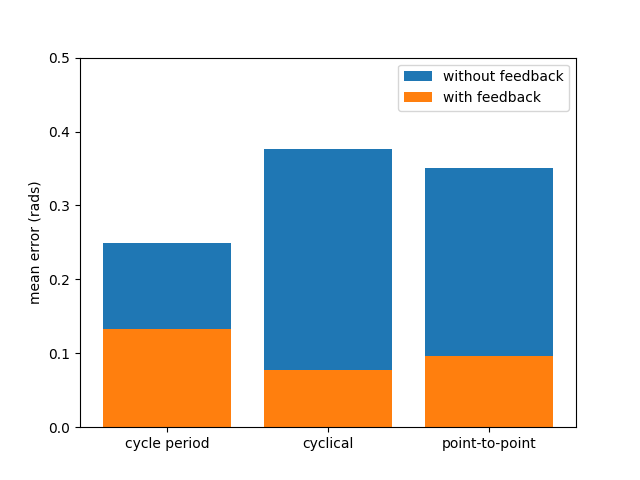
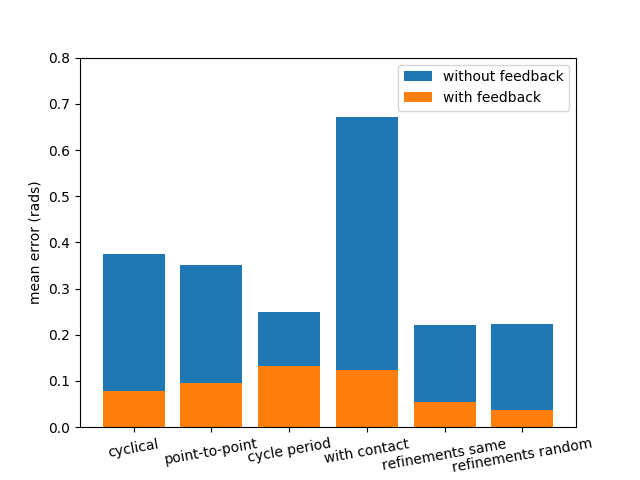
changing the code to generate one instanse figure and saving the results

diff --git a/main.py b/main.py
@@ -22,15 +22,15 @@ np.random.seed(0)
 
 P = np.array([10, 15])
 I = np.array([2, 6])
-trial_number = 50
-
-experiments_switch=[0, 0, 0, 0, 0, 0, 0, 0]#[1, 1, 1, 1, 1, 1, 1, 1] 
+trial_number = 1
+plot_outputs=True
+experiments_switch=[1, 1, 1, 0, 1, 0, 0, 0]#[0, 0, 0, 0, 0, 0, 0, 0]#[1, 1, 1, 1, 1, 1, 1, 1] 
 for ii in range(len(experiments_switch)):
 	globals()["exp{}_average_error".format(ii+1)]=np.zeros([2,1])
 
 if experiments_switch[0] ==1:
 	features=np.ones(10,)
-	cycle_durations = np.linspace(.1,10,trial_number)
+	cycle_durations = np.array([2])#np.linspace(.1,10,trial_number)
 	test1_no = cycle_durations.shape[0]
 	exp1_average_error = np.zeros([2,test1_no]) # first row open-loop and second row close-loop
 	#cycle length experiment
@@ -39,8 +39,8 @@ if experiments_switch[0] ==1:
 		q0_filtered_10 = np.tile(q0_filtered,10)
 		q1_filtered_10 = np.tile(q1_filtered,10)
 		desired_kinematics = positions_to_kinematics_fcn(q0_filtered_10, q1_filtered_10, timestep = 0.005)
-		exp1_average_error[0,ii], _, _ = openloop_run_fcn(model=model, desired_kinematics=desired_kinematics, plot_outputs=False, Mj_render=False)
-		exp1_average_error[1,ii], _, _ = closeloop_run_fcn(model=model, desired_kinematics=desired_kinematics, P=P, I=I, plot_outputs=False, Mj_render=False) # K = [10, 15]
+		exp1_average_error[0,ii], _, _ = openloop_run_fcn(model=model, desired_kinematics=desired_kinematics, plot_outputs=plot_outputs, Mj_render=False)
+		exp1_average_error[1,ii], _, _ = closeloop_run_fcn(model=model, desired_kinematics=desired_kinematics, P=P, I=I, plot_outputs=plot_outputs, Mj_render=False) # K = [10, 15]
 
 if experiments_switch[1] ==1:
 	test2_no = trial_number
@@ -52,8 +52,8 @@ if experiments_switch[1] ==1:
 		q0_filtered_10 = np.tile(q0_filtered,10)
 		q1_filtered_10 = np.tile(q1_filtered,10)
 		desired_kinematics = positions_to_kinematics_fcn(q0_filtered_10, q1_filtered_10, timestep = 0.005)
-		exp2_average_error[0,ii], _, _ = openloop_run_fcn(model=model, desired_kinematics=desired_kinematics, plot_outputs=False, Mj_render=False)
-		exp2_average_error[1,ii], _, _ = closeloop_run_fcn(model=model, desired_kinematics=desired_kinematics, P=P, I=I, plot_outputs=False, Mj_render=False) # K = [10, 15]
+		exp2_average_error[0,ii], _, _ = openloop_run_fcn(model=model, desired_kinematics=desired_kinematics, plot_outputs=plot_outputs, Mj_render=False)
+		exp2_average_error[1,ii], _, _ = closeloop_run_fcn(model=model, desired_kinematics=desired_kinematics, P=P, I=I, plot_outputs=plot_outputs, Mj_render=False) # K = [10, 15]
 		#print("error_without: ", exp2_average_error[0,0], "error with: ", exp2_average_error[1,0])
 
 if experiments_switch[2] ==1:
@@ -63,8 +63,8 @@ if experiments_switch[2] ==1:
 		q0 = p2p_positions_gen_fcn(low=-np.pi/3, high=np.pi/3, number_of_positions=10, duration_of_each_position=3, timestep=.005)
 		q1 = p2p_positions_gen_fcn(low=-np.pi/2, high=0, number_of_positions=10, duration_of_each_position=3, timestep=.005)
 		desired_kinematics = positions_to_kinematics_fcn(q0, q1, timestep = 0.005)
-		exp3_average_error[0,ii], _, _ = openloop_run_fcn(model=model, desired_kinematics=desired_kinematics, plot_outputs=False, Mj_render=False)
-		exp3_average_error[1,ii], _, _ = closeloop_run_fcn(model=model, desired_kinematics=desired_kinematics,  P=P, I=I, plot_outputs=False, Mj_render=False) # K = [10, 15]
+		exp3_average_error[0,ii], _, _ = openloop_run_fcn(model=model, desired_kinematics=desired_kinematics, plot_outputs=plot_outputs, Mj_render=False)
+		exp3_average_error[1,ii], _, _ = closeloop_run_fcn(model=model, desired_kinematics=desired_kinematics,  P=P, I=I, plot_outputs=plot_outputs, Mj_render=False) # K = [10, 15]
 
 if experiments_switch[3] ==1:
 	test4_no = 1
@@ -93,8 +93,8 @@ if experiments_switch[4] == 1:
 		q0_filtered_10 = np.tile(q0_filtered,10)
 		q1_filtered_10 = np.tile(q1_filtered,10)
 		desired_kinematics = positions_to_kinematics_fcn(q0_filtered_10, q1_filtered_10, timestep = 0.005)
-		exp5_average_error[0,ii], _, _ = openloop_run_fcn(model=model, desired_kinematics=desired_kinematics, model_ver=2, plot_outputs=False, Mj_render=False)
-		exp5_average_error[1,ii], _, _ = closeloop_run_fcn(model=model, desired_kinematics=desired_kinematics, model_ver=2, P=P, I=I, plot_outputs=False, Mj_render=False) # K = [10, 15]
+		exp5_average_error[0,ii], _, _ = openloop_run_fcn(model=model, desired_kinematics=desired_kinematics, model_ver=2, plot_outputs=plot_outputs, Mj_render=False)
+		exp5_average_error[1,ii], _, _ = closeloop_run_fcn(model=model, desired_kinematics=desired_kinematics, model_ver=2, P=P, I=I, plot_outputs=plot_outputs, Mj_render=False) # K = [10, 15]
 
 if experiments_switch[5] == 1: # everlearn ones
 	[babbling_kinematics_1min, babbling_activations_1min] = babbling_fcn(simulation_minutes=1)
@@ -115,11 +115,11 @@ if experiments_switch[5] == 1: # everlearn ones
 		q1_filtered_10 = np.tile(q1_filtered,10)
 		desired_kinematics = positions_to_kinematics_fcn(q0_filtered_10, q1_filtered_10, timestep = 0.005)
 
-		exp6_average_error[0,ii], real_attempt_kinematics_ol, real_attempt_activations_ol = openloop_run_fcn(model=exp6_model_ol, desired_kinematics=desired_kinematics, model_ver=0, plot_outputs=False, Mj_render=False)
+		exp6_average_error[0,ii], real_attempt_kinematics_ol, real_attempt_activations_ol = openloop_run_fcn(model=exp6_model_ol, desired_kinematics=desired_kinematics, model_ver=0, plot_outputs=plot_outputs, Mj_render=False)
 		cum_kinematics_ol, cum_activations_ol = concatinate_data_fcn( cum_kinematics_ol, cum_activations_ol, real_attempt_kinematics_ol, real_attempt_activations_ol, throw_percentage = 0.20)
 		exp6_model_ol = inverse_mapping_fcn(cum_kinematics_ol, cum_activations_ol, prior_model = exp6_model_ol)
 
-		exp6_average_error[1,ii], real_attempt_kinematics_cl, real_attempt_activations_cl = closeloop_run_fcn(model=exp6_model_cl, desired_kinematics=desired_kinematics, model_ver=0, P=P, I=I, plot_outputs=False, Mj_render=False)
+		exp6_average_error[1,ii], real_attempt_kinematics_cl, real_attempt_activations_cl = closeloop_run_fcn(model=exp6_model_cl, desired_kinematics=desired_kinematics, model_ver=0, P=P, I=I, plot_outputs=plot_outputs, Mj_render=False)
 		cum_kinematics_cl, cum_activations_cl = concatinate_data_fcn( cum_kinematics_cl, cum_activations_cl, real_attempt_kinematics_cl, real_attempt_activations_cl, throw_percentage = 0.20)
 		exp6_model_cl = inverse_mapping_fcn(cum_kinematics_cl, cum_activations_cl, prior_model = exp6_model_cl)
 
@@ -142,11 +142,11 @@ if experiments_switch[6] == 1: # everlearn random
 		q1_filtered_10 = np.tile(q1_filtered,10)
 		desired_kinematics = positions_to_kinematics_fcn(q0_filtered_10, q1_filtered_10, timestep = 0.005)
 
-		exp7_average_error[0,ii], real_attempt_kinematics_ol, real_attempt_activations_ol = openloop_run_fcn(model=exp7_model_ol, desired_kinematics=desired_kinematics, model_ver=0, plot_outputs=False, Mj_render=False)
+		exp7_average_error[0,ii], real_attempt_kinematics_ol, real_attempt_activations_ol = openloop_run_fcn(model=exp7_model_ol, desired_kinematics=desired_kinematics, model_ver=0, plot_outputs=plot_outputs, Mj_render=False)
 		cum_kinematics_ol, cum_activations_ol = concatinate_data_fcn( cum_kinematics_ol, cum_activations_ol, real_attempt_kinematics_ol, real_attempt_activations_ol, throw_percentage = 0.20)
 		exp7_model_ol = inverse_mapping_fcn(cum_kinematics_ol, cum_activations_ol, prior_model = exp6_model_ol)
 
-		exp7_average_error[1,ii], real_attempt_kinematics_cl, real_attempt_activations_cl = closeloop_run_fcn(model=exp7_model_cl, desired_kinematics=desired_kinematics, model_ver=0, P=P, I=I, plot_outputs=False, Mj_render=False)
+		exp7_average_error[1,ii], real_attempt_kinematics_cl, real_attempt_activations_cl = closeloop_run_fcn(model=exp7_model_cl, desired_kinematics=desired_kinematics, model_ver=0, P=P, I=I, plot_outputs=plot_outputs, Mj_render=False)
 		cum_kinematics_cl, cum_activations_cl = concatinate_data_fcn( cum_kinematics_cl, cum_activations_cl, real_attempt_kinematics_cl, real_attempt_activations_cl, throw_percentage = 0.20)
 		exp7_model_cl = inverse_mapping_fcn(cum_kinematics_cl, cum_activations_cl, prior_model = exp6_model_cl)
 
@@ -179,6 +179,6 @@ errors_all = [exp1_average_error, exp2_average_error, exp3_average_error, exp4_a
 # plt.plot(exp7_average_error[0,:])
 # plt.plot(exp7_average_error[1,:])
 # plt.show(block=True)
-plot_comparison_figures_fcn(errors_all)
+#plot_comparison_figures_fcn(errors_all)
 
 #import pdb; pdb.set_trace()

diff --git a/feedback_functions.py b/feedback_functions.py
@@ -90,7 +90,7 @@ def closeloop_run_fcn(model, desired_kinematics, P, I, delay_timesteps=0, model_
 	error1 = error_cal_fcn(desired_kinematics[:,3], real_attempt_kinematics[:,3])
 	average_error = 0.5*(error0+error1)
 	if plot_outputs:
-		plt.figure()
+		#plt.figure()
 		plt.subplot(2, 1, 1)
 		plt.plot(range(desired_kinematics.shape[0]), desired_kinematics[:,0], range(desired_kinematics.shape[0]), real_attempt_kinematics[:,0])
 		plt.ylabel("q0 desired vs. simulated")
@@ -116,7 +116,7 @@ def openloop_run_fcn(model, desired_kinematics, model_ver=0, plot_outputs=False,
 		plt.plot(range(desired_kinematics.shape[0]), desired_kinematics[:,3], range(desired_kinematics.shape[0]), real_attempt_kinematics[:,3])
 		plt.ylabel("q1  desired vs. simulated")
 		plt.xlabel("Sample #")
-		plt.show(block=True)
+		#plt.show(block=True)
 	return average_error, real_attempt_kinematics, real_attempt_activations
 
 def p2p_positions_gen_fcn(low, high, number_of_positions, duration_of_each_position, timestep):
@@ -178,14 +178,16 @@ def plot_comparison_figures_fcn(errors_all):
 	plt.ylabel("error (rads)")
 	plt.savefig('./results/P_I/exp3.png')
 	plt.show()
-	# plt 4: 1-3 compare
+	# plt 4: compare all
 	plt.figure()
-	plt.bar(range(3), [errors_all[0][0,:].mean(axis=0), errors_all[1][0,:].mean(axis=0), errors_all[2][0,:].mean(axis=0)])
-	plt.bar(range(3), [errors_all[0][1,:].mean(axis=0), errors_all[1][1,:].mean(axis=0), errors_all[2][1,:].mean(axis=0)])
-	plt.ylim(0,.5)
+	plt.bar(range(6), [errors_all[1][0,:].mean(axis=0), errors_all[2][0,:].mean(axis=0), errors_all[0][0,:].mean(axis=0), 
+			errors_all[4][0,:].mean(axis=0), errors_all[5][0,:].mean(axis=0), errors_all[6][0,:].mean(axis=0)])
+	plt.bar(range(6), [errors_all[1][1,:].mean(axis=0), errors_all[2][1,:].mean(axis=0), errors_all[0][1,:].mean(axis=0),
+			errors_all[4][1,:].mean(axis=0), errors_all[5][1,:].mean(axis=0), errors_all[6][1,:].mean(axis=0)])
+	plt.ylim(0,.8)
 	plt.legend(["without feedback",'with feedback'])
 	plt.ylabel("mean error (rads)")
-	plt.xticks(range(3),('cycle period','cyclical','point-to-point'))
+	plt.xticks(range(6),('cyclical','point-to-point', 'cycle period', 'with contact', 'refinements same', 'refinements random'), rotation=10)
 	plt.savefig('./results/P_I/mean_errors.png')
 	plt.show()
 	# errors_all = [exp2_average_error]
